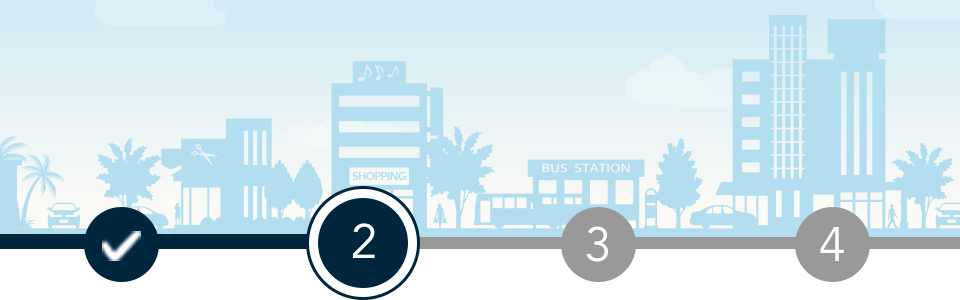
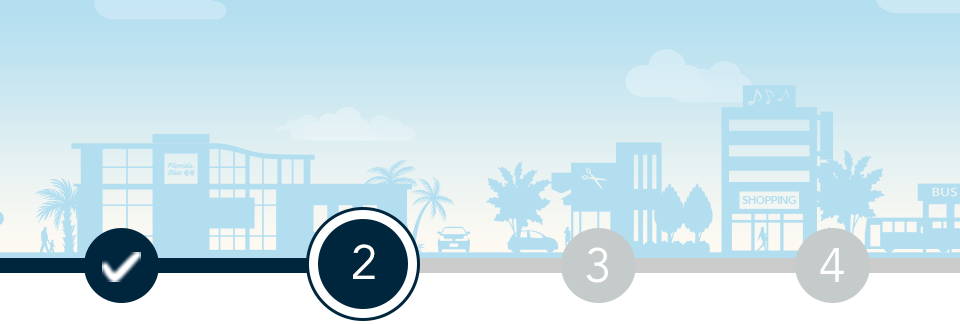
Replaced registration header images with new ones, the previous ones were losing 8 - 10 pixels in width and distorting the image on the device.. Added the PasswordHint view and styled the hint buttons on screen 2 of registration..

diff --git a/FloridaBlue/App/Containers/Registration/Containers/PasswordHint/PasswordHintStyle.js b/FloridaBlue/App/Containers/Registration/Containers/PasswordHint/PasswordHintStyle.js
@@ -1,24 +1,29 @@
-// @flow
-
 import { StyleSheet } from 'react-native'
 import { ApplicationStyles, Colors, Metrics, Fonts } from '../../../../Themes/'
 
 export default StyleSheet.create({
   ...ApplicationStyles.screen,
-  container: {
-    flex: 1,
-    paddingTop: 0
-  },
   headerImage: {
     width: Metrics.screenWidth,
     resizeMode: 'stretch',
     height: (Metrics.screenHeight - (Metrics.screenHeight * 0.59)) / 2
+  },
+  close: {
+    marginTop: Metrics.smallMargin,
+    alignItems: 'flex-end',
+    justifyContent: 'flex-end'
   },
   heading: {
     marginTop: Metrics.doubleBaseMargin,
     color: Colors.flBlue.anvil,
     fontFamily: Fonts.type.base,
     fontSize: Fonts.size.h4
+  },
+  description: {
+    color: Colors.flBlue.grey3,
+    textAlign: 'left',
+    fontWeight: 'bold',
+    fontSize: Fonts.size.medium
   },
   messageView: {
     padding: Metrics.baseMargin,
@@ -52,39 +57,8 @@ export default StyleSheet.create({
     marginTop: Metrics.baseMargin,
     paddingVertical: Metrics.baseMargin,
     paddingHorizontal: Metrics.doubleBaseMargin,
-    alignItems: 'stretch',
-    justifyContent: 'space-between'
-  },
-  checkboxRow: {
-    flex: 1,
-    flexDirection: 'row',
-    width: Metrics.screenWidth,
-    marginTop: Metrics.baseMargin,
-    paddingVertical: Metrics.baseMargin,
-    paddingHorizontal: Metrics.doubleBaseMargin,
-    height: Metrics.doubleBaseMargin * 4,
-    backgroundColor: Colors.flBlue.grey1,
-    alignItems: 'stretch',
-    justifyContent: 'space-between'
-  },
-  checkbox: {
-    alignSelf: 'flex-start',
-    justifyContent: 'flex-start'
-  },
-  checkboxMessageView: {
-    alignSelf: 'flex-end',
-    justifyContent: 'flex-end'
-  },
-  checkboxMessageText: {
-    color: Colors.flBlue.grey5,
-    fontWeight: 'bold',
-    fontSize: Fonts.size.medium,
-    height: Metrics.doubleBaseMargin * 2.8
-  },
-  checkboxMessageHyperlink: {
-    color: Colors.flBlue.deepBlue,
-    fontWeight: 'bold',
-    fontSize: Fonts.size.medium
+    alignItems: 'center',
+    justifyContent: 'center'
   },
   backButton: {
     alignSelf: 'flex-start',
@@ -105,8 +79,24 @@ export default StyleSheet.create({
     height: 48,  // have to do it on iOS
     marginTop: 10
   },
-  spinnerView: {
-    alignSelf: 'center'
+  wrapper1: {
+    backgroundColor: Colors.snow,
+    marginTop: Metrics.baseMargin
+  },
+  slide: {
+    flex: 1,
+    alignItems: 'center',
+    flexWrap: 'nowrap',
+    backgroundColor: Colors.snow
+  },
+  outofBox: {
+    // backgroundColor : 'grey',
+    // padding : 20,
+    alignItems: 'center',
+    justifyContent: 'center'
+    // width : window.width,
+    // marginBottom : 30
+
   },
   footer: {
     flex: 1,
@@ -118,14 +108,7 @@ export default StyleSheet.create({
   footerText: {
     color: Colors.flBlue.grey4,
     marginHorizontal: Metrics.section,
-    marginBottom: Metrics.baseMargin,
     textAlign: 'center',
-    fontWeight: 'bold',
-    fontSize: Fonts.size.small
-  },
-  hintLink: {
-    marginTop: 10,
-    color: Colors.flBlue.ocean,
     fontWeight: 'bold',
     fontSize: Fonts.size.small
   }

diff --git a/FloridaBlue/App/Containers/Registration/Containers/PasswordHint/PasswordHint.js b/FloridaBlue/App/Containers/Registration/Containers/PasswordHint/PasswordHint.js
@@ -1,0 +1,81 @@
+// @flow
+
+import React, { PropTypes } from 'react'
+import ReactNative, {
+  Image,
+  KeyboardAvoidingView,
+  ScrollView,
+  Text,
+  TextInput,
+  TouchableOpacity,
+  View
+} from 'react-native'
+// Add Actions - replace 'Your' with whatever your reducer is called :)
+// import YourActions from '../Redux/YourRedux'
+import { Colors, Fonts, Images, Metrics } from '../../../../Themes'
+// external libs
+import Icon from 'react-native-vector-icons/FontAwesome'
+import { KeyboardAwareScrollView } from 'react-native-keyboard-aware-scroll-view'
+
+// Styles
+import styles from './PasswordHintStyle'
+
+import Flb from '../../../../Themes/FlbIcon'
+// I18n
+import I18n from 'react-native-i18n'
+
+import { Actions as NavigationActions } from 'react-native-router-flux'
+import { connect } from 'react-redux'
+import Swiper from 'react-native-swiper'
+
+class PasswordHint extends React.Component {
+  _handleClose () {
+    NavigationActions.pop()
+  }
+
+  render () {
+    return (
+      <View style={styles.container}>
+        <ScrollView>
+          <Image source={Images.registrationStep2Hdr} style={styles.headerImage} />
+          <View style={styles.row}>
+            <Text style={styles.heading}>{I18n.t('passwordHint')}</Text>
+          </View>
+          <View style={styles.row}>
+            <Text style={styles.description}>{I18n.t('passwordHintDescription1')}</Text>
+          </View>
+          <View style={styles.row}>
+            <Text style={styles.description}>{I18n.t('passwordHintDescription2')}</Text>
+          </View>
+          <View style={styles.row}>
+            <Text style={styles.description}>{I18n.t('passwordHintDescription3')}</Text>
+          </View>
+          <View style={styles.buttonRow}>
+            <TouchableOpacity onPress={() => { this._handleClose() }}>
+              <Image source={Images.closeButtonGray} />
+            </TouchableOpacity>
+          </View>
+        </ScrollView>
+      </View>
+    )
+  }
+}
+
+PasswordHint.propTypes = {
+  fetching: PropTypes.bool,
+  error: PropTypes.string
+}
+
+const mapStateToProps = (state) => {
+  return {
+    fetching: state.registration.fetching,
+    error: state.registration.error
+  }
+}
+
+const mapDispatchToProps = (dispatch) => {
+  return {
+  }
+}
+
+export default connect(mapStateToProps, mapDispatchToProps)(PasswordHint)

diff --git a/FloridaBlue/App/Containers/Registration/Containers/Screen_2/Screen_2.js b/FloridaBlue/App/Containers/Registration/Containers/Screen_2/Screen_2.js
@@ -78,11 +78,8 @@ class Screen_2 extends React.Component {
   componentDidMount () {
     // Set to null initially
     this.props.handleChangePersonalInformationStatus(null)
-
     // Set for true by default
     this.props.handleChangeEmailUpdated(true)
-
-    console.log("Show comm status: " + this.props.showCommElect);
   }
 
   componentDidUpdate () {
@@ -92,8 +89,6 @@ class Screen_2 extends React.Component {
       if (status === '000') {
         // Reset to null
         this.props.handleChangePersonalInformationStatus(null)
-
-        console.tron.log('Navigating to Screen 3')
         NavigationActions.screen_3()
       }
     }
@@ -102,6 +97,11 @@ class Screen_2 extends React.Component {
   _handleUserIdHint () {
     Keyboard.dismiss()
     NavigationActions.useridhint()
+  }
+
+  _handlePasswordHint () {
+    Keyboard.dismiss()
+    NavigationActions.passwordHint()
   }
 
   render () {
@@ -193,13 +193,9 @@ class Screen_2 extends React.Component {
               onSubmitEditing={(event) => {
                 this.refs.password.focus()
               }}
-              placeholder={I18n.t('createUserId')}
-            />
-            <Button
-              onPress={() => { this._handleUserIdHint() }}
-              title="Hint"
-              accessibilityLabel="Create User ID Hint"
-            />
+              placeholder={I18n.t('createUserId')}>
+            </TextfieldWithFloatingLabel>
+            <Text style={styles.hintLink} onPress={() => { this._handleUserIdHint() }}> Show hint </Text>
           </View>
           <View style={styles.row}>
             <TextfieldWithFloatingLabel
@@ -218,6 +214,7 @@ class Screen_2 extends React.Component {
               }}
               placeholder={I18n.t('password')}
             />
+            <Text style={styles.hintLink} onPress={() => { this._handlePasswordHint() }}> Show hint </Text>
           </View>
           <View style={styles.row}>
             <TextfieldWithFloatingLabel

diff --git a/FloridaBlue/App/Navigation/NavigationRouter.js b/FloridaBlue/App/Navigation/NavigationRouter.js
@@ -22,6 +22,7 @@ import { ReadMore} from '../Containers/Registration/Containers/Screen_2'
 import { TermsofUse} from '../Containers/Login'
 import { FindMemberID} from '../Containers/Registration/Containers/FindMemberID'
 import { UserIdHint } from '../Containers/Registration/Containers/UserIdHint'
+import { PasswordHint } from '../Containers/Registration/Containers/PasswordHint'
 import { Confirmation} from '../Containers/Registration/Containers/Confirmation'
 // import { WelcomeDisplay} from '../Containers/MemberDashBoard/Containers/WelcomeDisplay'
 import { DashBoard} from '../Containers/MemberDashBoard/Containers/WelcomeDisplay'
@@ -54,6 +55,7 @@ class NavigationRouter extends Component {
             <Scene  key='confirmation' component={Confirmation} title='Confirmation page'hideNavBar />
 
             <Scene key='useridhint' component={UserIdHint} title='UserIdHint page' hideNavBar />
+            <Scene key='passwordHint' component={PasswordHint} title='PasswordHint page' hideNavBar />
 
             <Scene key='WelcomeDashBoard' component={DashBoard} title='Florida Blue' hideNsavBar />
             <Scene key='memberid' component={FindMemberID} title='MemberId page'hideNavBar />

diff --git a/FloridaBlue/App/Containers/Registration/Containers/PasswordHint/index.js b/FloridaBlue/App/Containers/Registration/Containers/PasswordHint/index.js
@@ -1,0 +1,5 @@
+// @flow
+
+import PasswordHint from './PasswordHint'
+
+export { PasswordHint }
